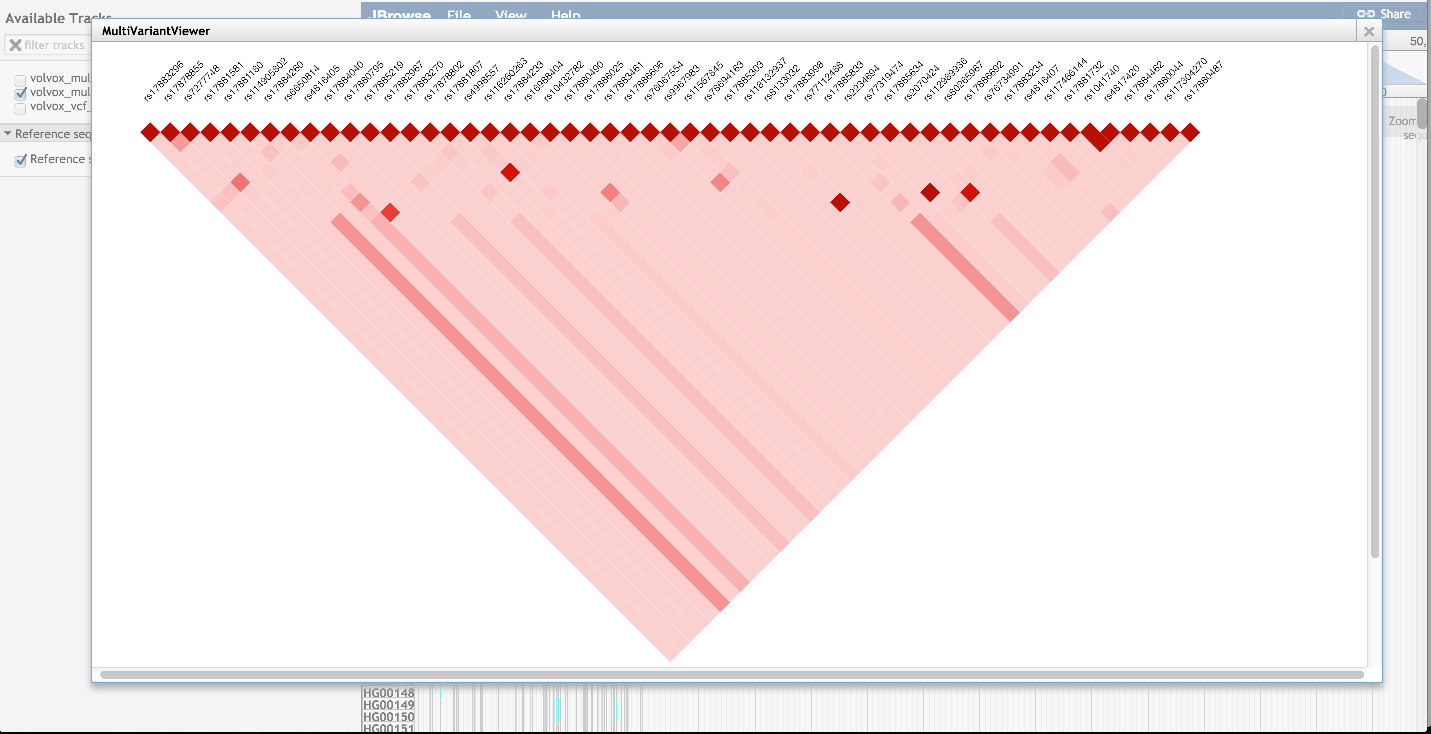
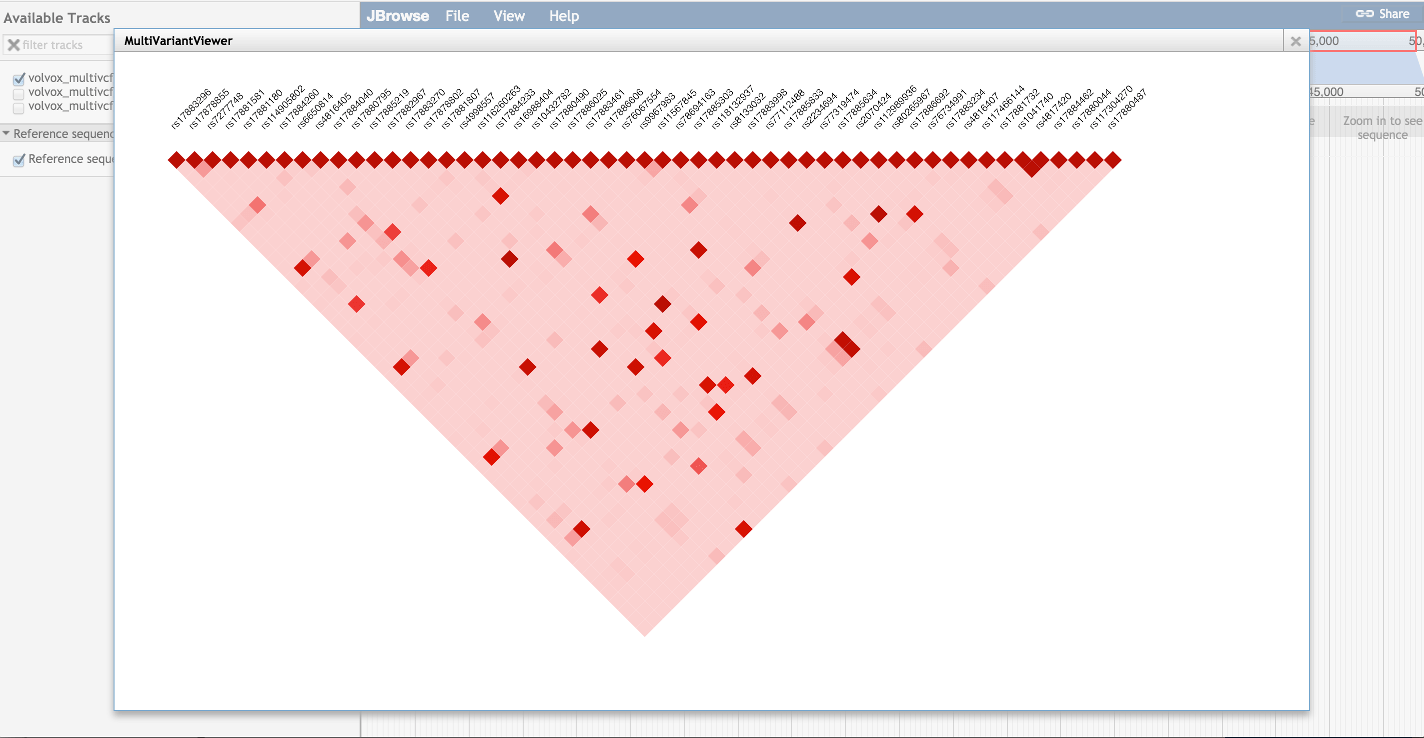
Modularize parsing and rendering of LD

diff --git a/js/View/Dialog/LDViewer.js b/js/View/Dialog/LDViewer.js
@@ -26,8 +26,8 @@ function(
             var ref;
             var thisB = this;
             var div = dojo.create('div', { className: 'containerld' }, this.container);
-            var c = dojo.create('canvas', { className: 'canvasld' }, div);
             var p = dojo.create('p', { className: 'errorld' }, div);
+            var c = dojo.create('canvas', { className: 'canvasld' }, div);
             dojo.style(this.containerNode, 'overflow', 'auto');
 
 
@@ -48,60 +48,10 @@ function(
                             url: args.url
                         };
                         request(args.ldviewer + '?' + ioQuery.objectToQuery(query)).then(function(res) {
-                            var i = 0;
-                            var j = 0;
-                            var k = 0;
-                            var line;
-                            var snps = [];
-                            var lines = res.split('\n');
-                            while (lines[j] !== 'break' && j < lines.length) {
-                                line = lines[j++].trim();
-                                if (line !== '') {
-                                    snps.push(line);
-                                }
-                            }
-                            j++; // skip 'break' line
-
-                            // resize dialog canvas
-                            var w = snps.length * 20 + 200;
-                            var h = snps.length * 10 + 200;
-                            c.width = w * 2;
-                            c.height = h * 2;
-                            c.style.width = w + 'px';
-                            c.style.height = h + 'px';
-                            var ctx = c.getContext('2d');
-                            ctx.scale(2, 2);
-                            thisB.resize();
-                            thisB._position();
-
-                            // render snp names
-                            for (i = 0; i < snps.length; i++) {
-                                var snp = snps[i];
-                                ctx.save();
-                                ctx.translate(50 + i * 20, 50);
-                                ctx.rotate(-Math.PI / 4);
-                                ctx.textAlign = 'left';
-                                ctx.fillText(snp, 0, 0);
-                                ctx.restore();
-                            }
-
-                            // render triangle rotated
-                            ctx.translate(43, 80);
-                            ctx.rotate(-Math.PI / 4);
-                            while (j < lines.length) {
-                                line = lines[j].trim();
-                                if (line !== '') {
-                                    var scores = line.split('\t');
-                                    for (i = 0; i < scores.length; i++) {
-                                        var score = scores[i];
-                                        ctx.fillStyle = 'hsl(0,80%,' + (90 - score * 50) + '%)';
-                                        ctx.fillRect(i * 14.14, k * 14.14, 14.14, 14.14);
-                                        ctx.fill();
-                                    }
-                                }
-                                j++;
-                                k++;
-                            }
+                            var r = thisB.parseResults(res);
+                            r.canvas = c;
+                            r.boxw = 18;
+                            thisB.renderBox(r);
                         }, function(error) {
                             console.error('error', error.message);
                             p.innerHTML = error.message;
@@ -117,6 +67,78 @@ function(
 
             this.set('content', div);
             this.inherited(arguments);
+        },
+
+        parseResults: function(res) {
+            var j = 0;
+            var line;
+            var snps = [];
+            var lines = res.split('\n');
+            while (lines[j] !== 'break' && j < lines.length) {
+                line = lines[j++].trim();
+                if (line !== '') {
+                    snps.push(line);
+                }
+            }
+            j++; // skip 'break' line
+            var scores = [];
+            while (j < lines.length) {
+                line = lines[j].trim();
+                if (line !== '') {
+                    var scoreline = line.split('\t');
+                    scores.push(scoreline);
+                }
+                j++;
+            }
+            return {
+                scores: scores,
+                snps: snps
+            };
+        },
+
+        renderBox: function(args) {
+            var c = args.canvas;
+            var snps = args.snps;
+            var scores = args.scores;
+            var boxw = args.boxw;
+            var bw = boxw / Math.sqrt(2);
+            var height = args.height;
+
+            // resize dialog canvas
+            var w = snps.length * boxw + 200;
+            var h = snps.length * boxw + 200;
+            c.width = w * 2;
+            c.height = h * 2;
+            c.style.width = w + 'px';
+            c.style.height = h + 'px';
+            var ctx = c.getContext('2d');
+            ctx.scale(2, 2);
+            this.resize();
+            this._position();
+
+            // render snp names
+            for (var i = 0; i < snps.length; i++) {
+                var snp = snps[i];
+                ctx.save();
+                ctx.translate(50 + i * boxw, 50);
+                ctx.rotate(-Math.PI / 4);
+                ctx.textAlign = 'left';
+                ctx.fillText(snp, 0, 0);
+                ctx.restore();
+            }
+
+            // render triangle rotated
+            ctx.translate(43, 80);
+            ctx.rotate(-Math.PI / 4);
+            for (var j = 0; j < scores.length; j++) {
+                var line = scores[j];
+                for (var i = 0; i < line.length; i++) {
+                    var score = line[i];
+                    ctx.fillStyle = 'hsl(0,80%,' + (90 - score * 50) + '%)';
+                    ctx.fillRect(i * bw, j * bw, bw, bw);
+                    ctx.fill();
+                }
+            }
         }
     });
 });

diff --git a/js/View/Track/_MultiVariantOptions.js b/js/View/Track/_MultiVariantOptions.js
@@ -1,0 +1,35 @@
+define([
+    'dojo/_base/declare',
+    'MultiVariantViewer/View/Dialog/VariantViewer',
+    'MultiVariantViewer/View/Dialog/LDViewer'
+],
+function(
+    declare,
+    VariantDialog,
+    LDDialog
+) {
+    return declare(null, {
+        _trackMenuOptions: function() {
+            var opts = this.inherited(arguments);
+            var thisB = this;
+            var c = this.config;
+            opts.push({
+                label: 'View variant matrix',
+                onClick: function() {
+                    new VariantDialog().show({ browser: thisB.browser, track: thisB });
+                }
+            });
+
+            if(c.useLDViewer) {
+                opts.push({
+                    label: 'View variant LD',
+                    onClick: function() {
+                        console.log(c.baseUrl + c.urlTemplate);
+                        new LDDialog().show({ browser: thisB.browser, track: thisB, ldviewer: thisB.config.ldviewer, url: c.baseUrl + c.urlTemplate });
+                    }
+                });
+            }
+            return opts;
+        }
+    });
+});

diff --git a/js/View/Track/MultiVariant.js b/js/View/Track/MultiVariant.js
@@ -1,0 +1,12 @@
+define([
+    'dojo/_base/declare',
+    'JBrowse/View/Track/CanvasFeatures',
+    'MultiVariantViewer/View/Track/_MultiVariantOptions'
+],
+function(
+    declare,
+    CanvasFeatures,
+    MultiVariantOptions
+) {
+    return declare([ CanvasFeatures, MultiVariantOptions ]);
+});
